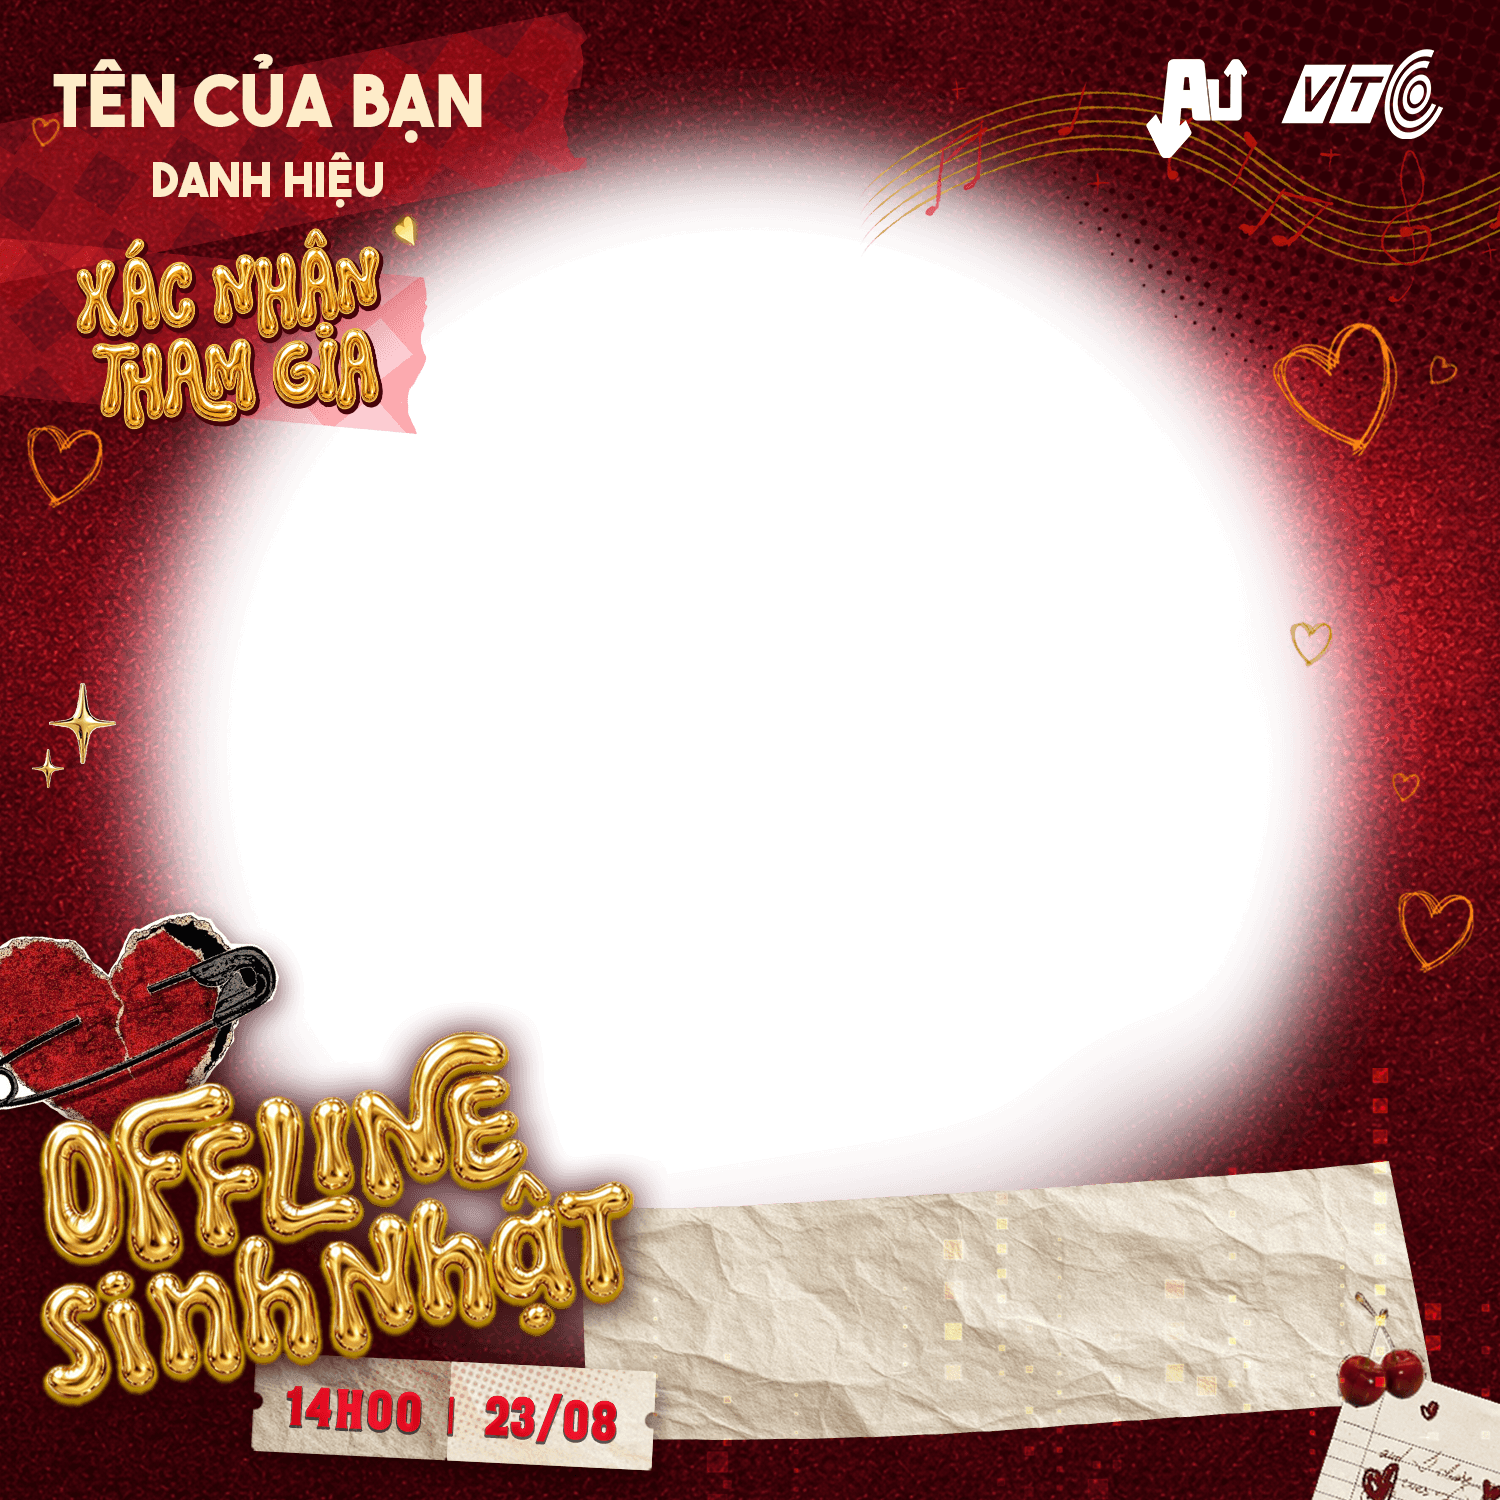
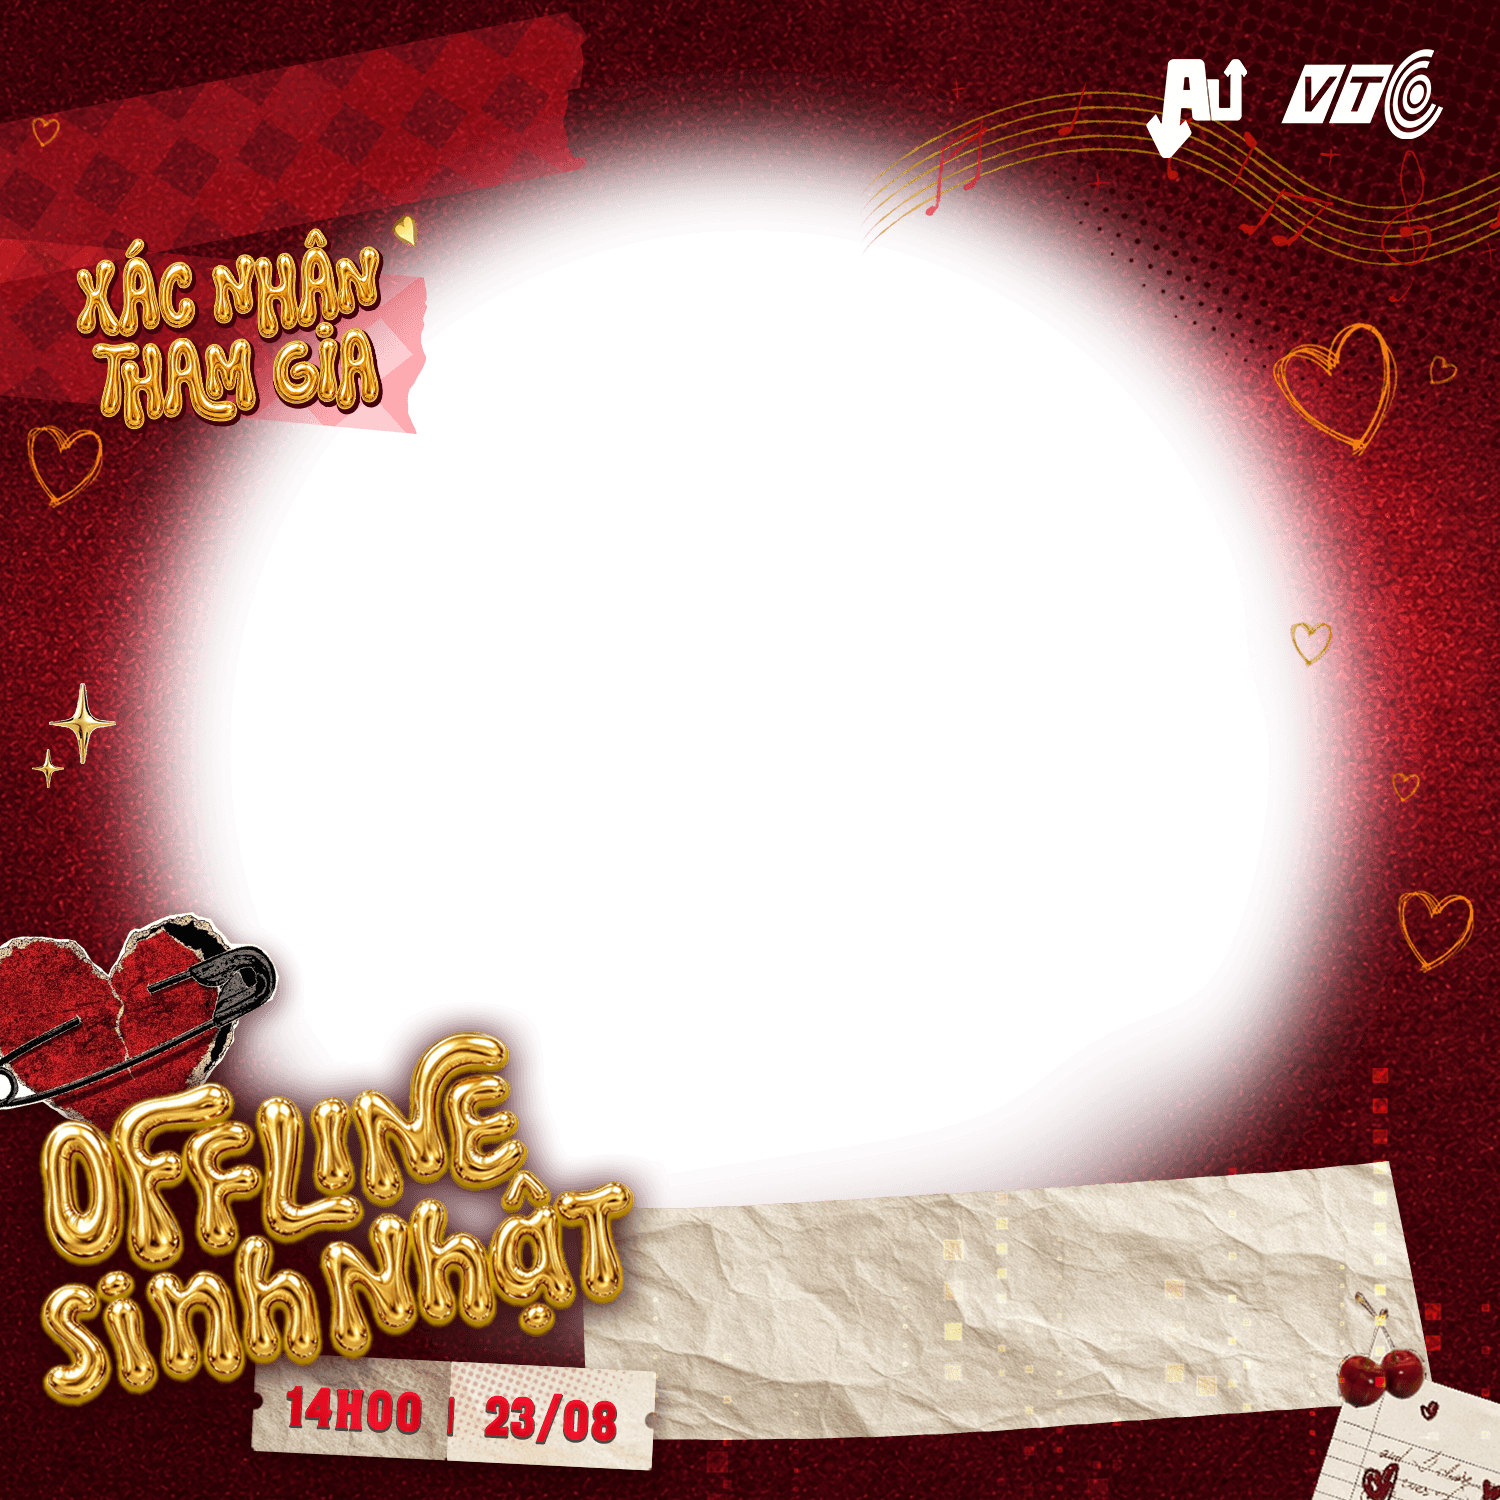
au20.4

Changed region(s): [[0.0307, 0.0307, 0.3373, 0.1533]]

diff --git a/aupc_thumoi/audition_thiepmoi.html b/aupc_thumoi/audition_thiepmoi.html
@@ -96,10 +96,11 @@
         }
         .invite-names {
             position: absolute;
-            top: 16.4%;      /* ~105px / 640 */
-            right: -0.9%;     /* ~20px / 640 */
-            width: 50%;      /* ~320px / 640 */
-            height: 11%;     /* ~70px / 640 */
+            top: 5%;         /* ~32px / 640 */
+            left: 0;
+            right: auto;
+            width: 38%;      /* ~243px / 640 -> tâm chữ ~19% */
+            height: 9.5%;    /* ~61px / 640 */
             display: flex;
             flex-direction: column;
             justify-content: center;
@@ -117,7 +118,7 @@
             font-weight: 700;
             font-family: 'Montserrat', Helvetica, sans-serif;
             letter-spacing: 0.5px;
-            color: #18302b;
+            color: #feebc9;
             display: block;
             text-transform: uppercase;
             line-height: 1.25;
@@ -127,7 +128,7 @@
             font-weight: 700;
             font-family: 'Montserrat', Helvetica, sans-serif;
             letter-spacing: 0.5px;
-            color: #18302b;
+            color: #feebc9;
             display: block;
             text-transform: uppercase;
             line-height: 1.25;
@@ -168,7 +169,7 @@
             width: 240px; /* tăng chiều rộng */
             min-width: 180px;
             font-weight: 900;
-            color: #18302b;
+            color: #feebc9;
             font-size: 1.25rem; /* giảm font-size một chút */
             letter-spacing: 0.5px; /* giảm khoảng cách chữ */
             text-align: left;
